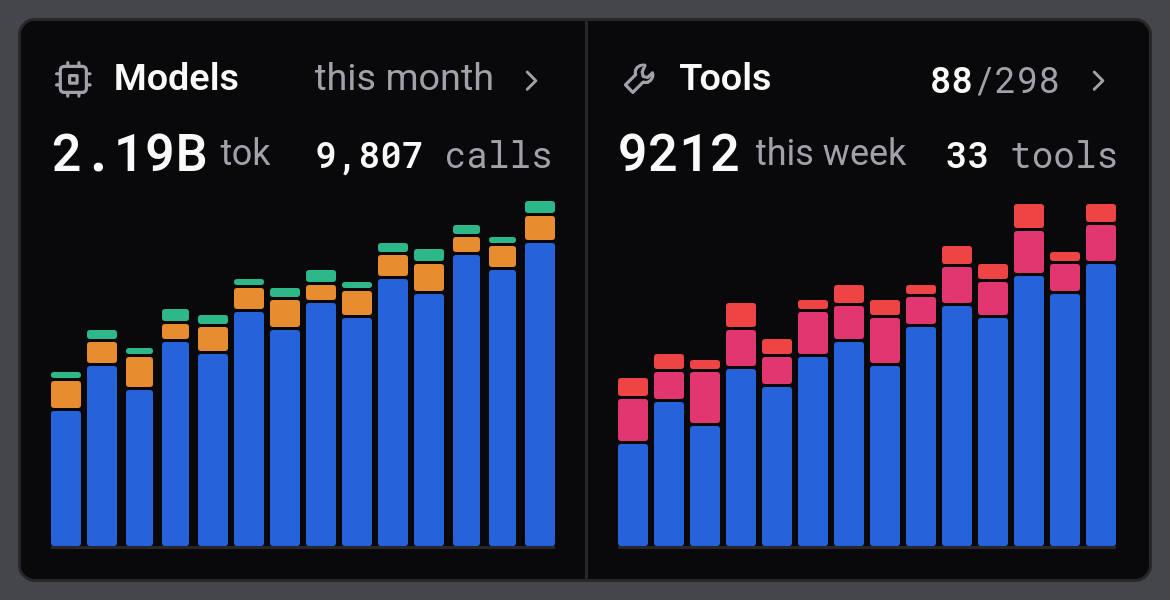
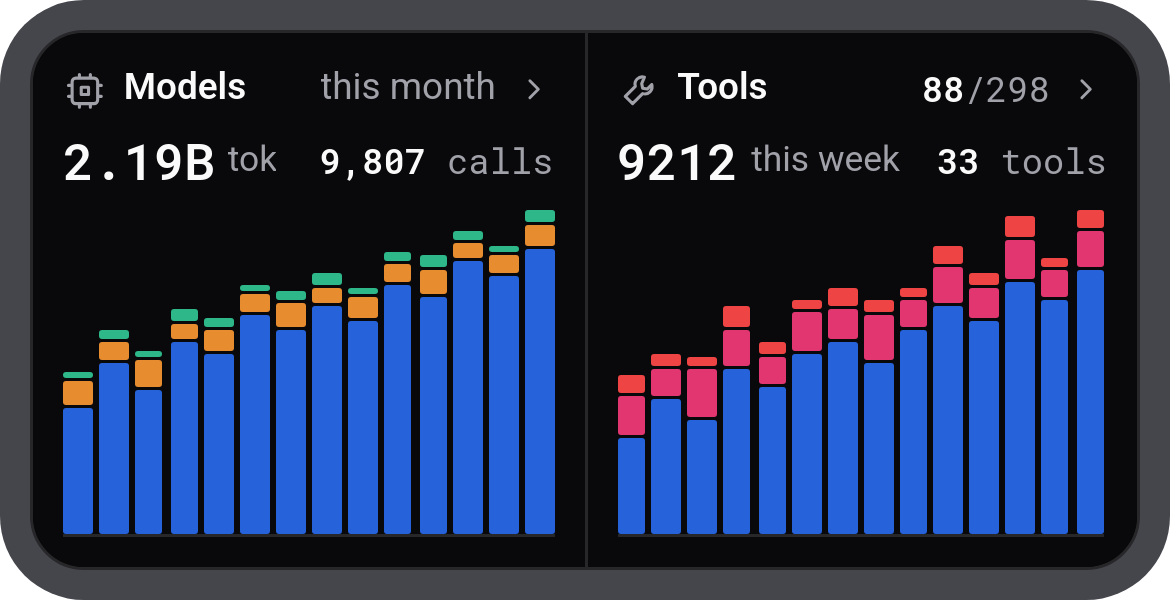
The widget is drawn for the launcher's rounded corners
1.9.5. From Android 12 a launcher rounds the whole widget off at its own
radius (the library's root is @android:id/background and the widget is one
bitmap inside it); Samsung's One UI rounds harder than the plate's 14, so
the plate's and the card's corners were cut. The radius cannot be read
where the bitmap is drawn, so the plate is drawn at the platform's cap, 28:
the cut then always falls outside its curve. The plate's padding is 10,
deeper than the curve on the diagonal (28 x (1 - 1/sqrt 2) = 8.2), and the
card inside rounds concentrically at 18 instead of 5. The k factor still
comes from the strings; the overflow matrix (320/344/390/412 x EN/TR x the
1.9.3 values) has no overflow, slack at least 2.7.

diff --git a/src/widget/StatsWidget.tsx b/src/widget/StatsWidget.tsx
@@ -31,9 +31,10 @@ import type { WidgetSnapshot } from './data';
  * The card as the web draws it on a phone, read off the site in a browser
  * (cc-usage.ts / cc-tools.ts / charts.ts): an 11px head, a 15px figure with
  * 10.5px asides, 9px padding on a narrow screen, the head's 5px gap, a 13px
- * icon, a 12px chevron, a 5px card radius inside a plate at 14, and 14 bars
- * two px apart on the 1px line. These are the web's numbers at the width the
- * web card itself has, and `metrics` multiplies all of them by one factor.
+ * icon, a 12px chevron, and 14 bars two px apart on the 1px line. These are
+ * the web's numbers at the width the web card itself has, and `metrics`
+ * multiplies all of them by one factor. The corners are not among them: they
+ * are the launcher's (`CORNER`).
  */
 const WEB = {
   head: 11,
@@ -44,10 +45,25 @@ const WEB = {
   headGap: 5,
   icon: 13,
   chev: 12,
-  radius: 5,
-  plateRadius: 14,
   barGap: 2,
 };
+/**
+ * The launcher's corner. From Android 12 a launcher rounds the whole widget
+ * off - the library's root is `@android:id/background`, and the widget is one
+ * picture inside it - at `system_app_widget_background_radius`: 16dp on a
+ * Pixel, more on a Samsung (One UI's widgets are rounder, a little under 28),
+ * and the platform caps it at 28. The picture is drawn in the app, where that
+ * value cannot be read, so the plate is drawn at the cap: on any launcher the
+ * cut then falls outside the plate's own curve, never into it.
+ */
+const CORNER = 28;
+/**
+ * The plate's padding: at least the depth of the curve on the diagonal,
+ * R(1 - 1/sqrt 2) = 8.2, and a dp more, so the card's corner stays clear of the
+ * cut and the card inside rounds at the same centre, R - pad.
+ */
+const PLATE_PAD = Math.ceil(CORNER * (1 - Math.SQRT1_2)) + 1;
+const CARD_RADIUS = CORNER - PLATE_PAD;
 /** Body is 13px/1.45 and the cards inherit it; the figures' `font:` shorthand resets theirs to normal, 1.28 in the web's own face. */
 const TEXT_LINE = 1.45;
 const FIG_LINE = 1.28;
@@ -170,15 +186,15 @@ interface Metrics {
 }
 
 function metrics(w: number, h: number, room: number): Metrics {
-  const pad = 6; // the web's `.ccl-wrap` margin round the card, now the plate's
+  const pad = PLATE_PAD;
   // A half's room inside the plate and the card's own borders.
   const half = (w - 2 * pad - 2) / 2;
   /**
    * The card is the web's, enlarged only as far as its widest line - `room`,
    * worked out from the words and figures it is about to write - still fits:
-   * for "9212 this week 33 tools" a little under 1 at the width the web card
-   * itself has (where the web clips that line and this does not), 1 at 344dp,
-   * 1.15 in a 5x2 cell of 390 - so a bigger frame gets a bigger card rather than
+   * for "9212 this week 33 tools" 0.9 at the width the web card itself has
+   * (where the web clips that line and this does not), a little under 1 at
+   * 344dp, 1.12 in a 5x2 cell of 390 - so a bigger frame gets a bigger card rather than
    * the web's 11px in a wide hole, and a longer figure a slightly smaller one.
    */
   const k = Math.max(0.75, Math.min(1.4, (half - 4) / (room + 2 * WEB.pad)));
@@ -207,8 +223,8 @@ function metrics(w: number, h: number, room: number): Metrics {
     smallLine: Math.round(smallFont * TEXT_LINE * 100) / 100,
     icon: Math.round(WEB.icon * k * 10) / 10,
     chev: Math.round(WEB.chev * k * 10) / 10,
-    radius: Math.round(WEB.radius * k * 10) / 10,
-    plateRadius: Math.round(WEB.plateRadius * k * 10) / 10,
+    radius: CARD_RADIUS,
+    plateRadius: CORNER,
     chart,
     barGap: Math.round(WEB.barGap * k * 10) / 10,
     innerLeft: half - 2 * cardPad,

diff --git a/README.md b/README.md
@@ -101,14 +101,21 @@ Then you sign in with the same e-mail address and password as on the web.
   that moment keeps the last reading it had rather than showing an empty
   frame. The card is the site's, measured off it in a browser rather than
   guessed: an 11px head over 15px figures and 10.5px asides, 9px padding on
-  a phone, gaps of 4, the plate at radius 14 and the card at 5. Those are the
+  a phone, gaps of 4. Those are the
   web's numbers at the width the web card has, and one factor - the room its
-  widest line leaves - multiplies all of them at once (1.9.2). That line is
+  widest line leaves - multiplies all of them at once (1.9.2). The corners are
+  the launcher's (1.9.5): from Android 12 a launcher rounds the whole widget
+  off at its own radius - 16dp on a Pixel, rounder on a Samsung, never more
+  than 28 - and the widget is one picture drawn in the app, where that radius
+  cannot be read, so the plate is drawn at 28 and the cut always falls outside
+  its curve. The plate's padding, 10, is deeper than the curve (28 x (1 -
+  1/sqrt 2) = 8.2), and the card inside rounds at the same centre, 18, so
+  nothing reaches into a corner and the corners look drawn, not cut. The widest line is
   worked out from the very words and figures the widget is about to write
   (1.9.3), glyph by glyph from Roboto's and Roboto Mono's own advances, in
-  English or Turkish: "9212 this week 33 tools" gives a little under 1 at
+  English or Turkish: "9212 this week 33 tools" gives 0.9 at
   320, the width the web card itself has, where the web clips that line and
-  the widget does not, 1 at 344 and 1.15 in a 5x2 cell of 390, so a bigger
+  the widget does not, a little under 1 at 344 and 1.12 in a 5x2 cell of 390, so a bigger
   frame gets a bigger card instead of 11px left small in it; a week past
   10,000 ("10.00k", "99.99k"), "999.9M" tokens, "12,350" calls or "100
   tools" make it a step smaller instead of running off the edge. The figures
